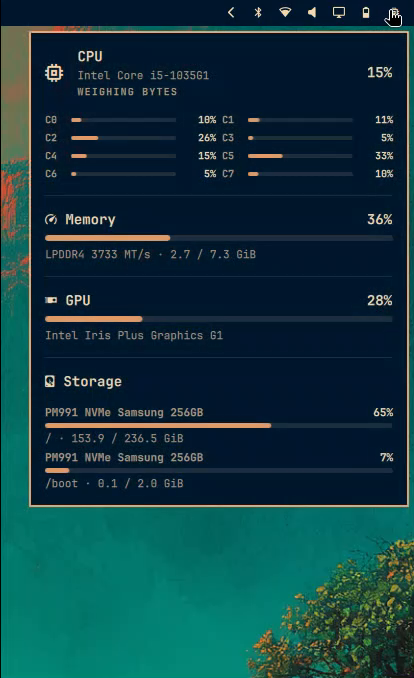
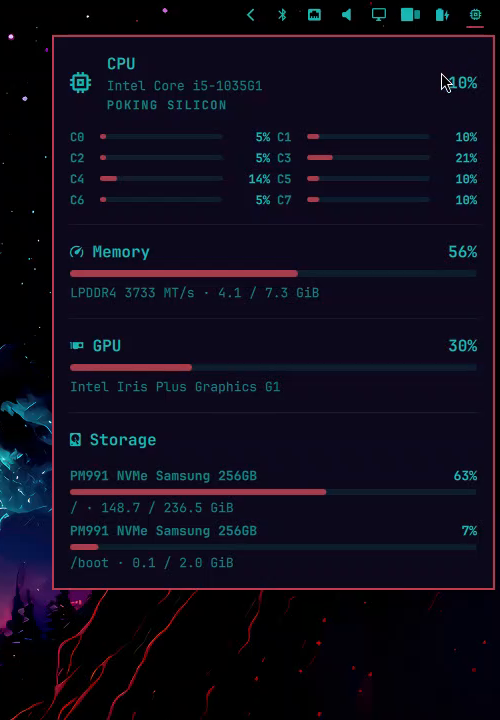
Refresh the demo GIF for click-to-open
Crop the latest screen recording to the chip and panel: left-click opens,
click again closes. Drop the btop window from the loop.

diff --git a/README.md b/README.md
@@ -5,11 +5,11 @@ An Omarchy bar widget that names the silicon in the machine, then stays out of t
 Click the chip for a Power-style panel: CPU model and per-core bars, RAM type and speed, GPU name and load, disk model and fill. It follows the active Omarchy theme. Right-click opens `btop` if you want the full TUI.
 
 <p align="center">
-  <img src="preview.gif" alt="Hardware Tooltip opening on one Omarchy theme, then following a theme change with live CPU and GPU bars" width="360">
+  <img src="preview.gif" alt="Left-click opens the Hardware Tooltip panel; click again to close" width="360">
 </p>
 
 <p align="center">
-  <img src="preview.png" alt="Hardware Tooltip on a teal Omarchy theme" width="240">
+  <img src="preview.png" alt="Hardware Tooltip click panel" width="240">
   <img src="docs/theme-night.png" alt="Hardware Tooltip after switching to a dark pink theme" width="240">
 </p>
 
